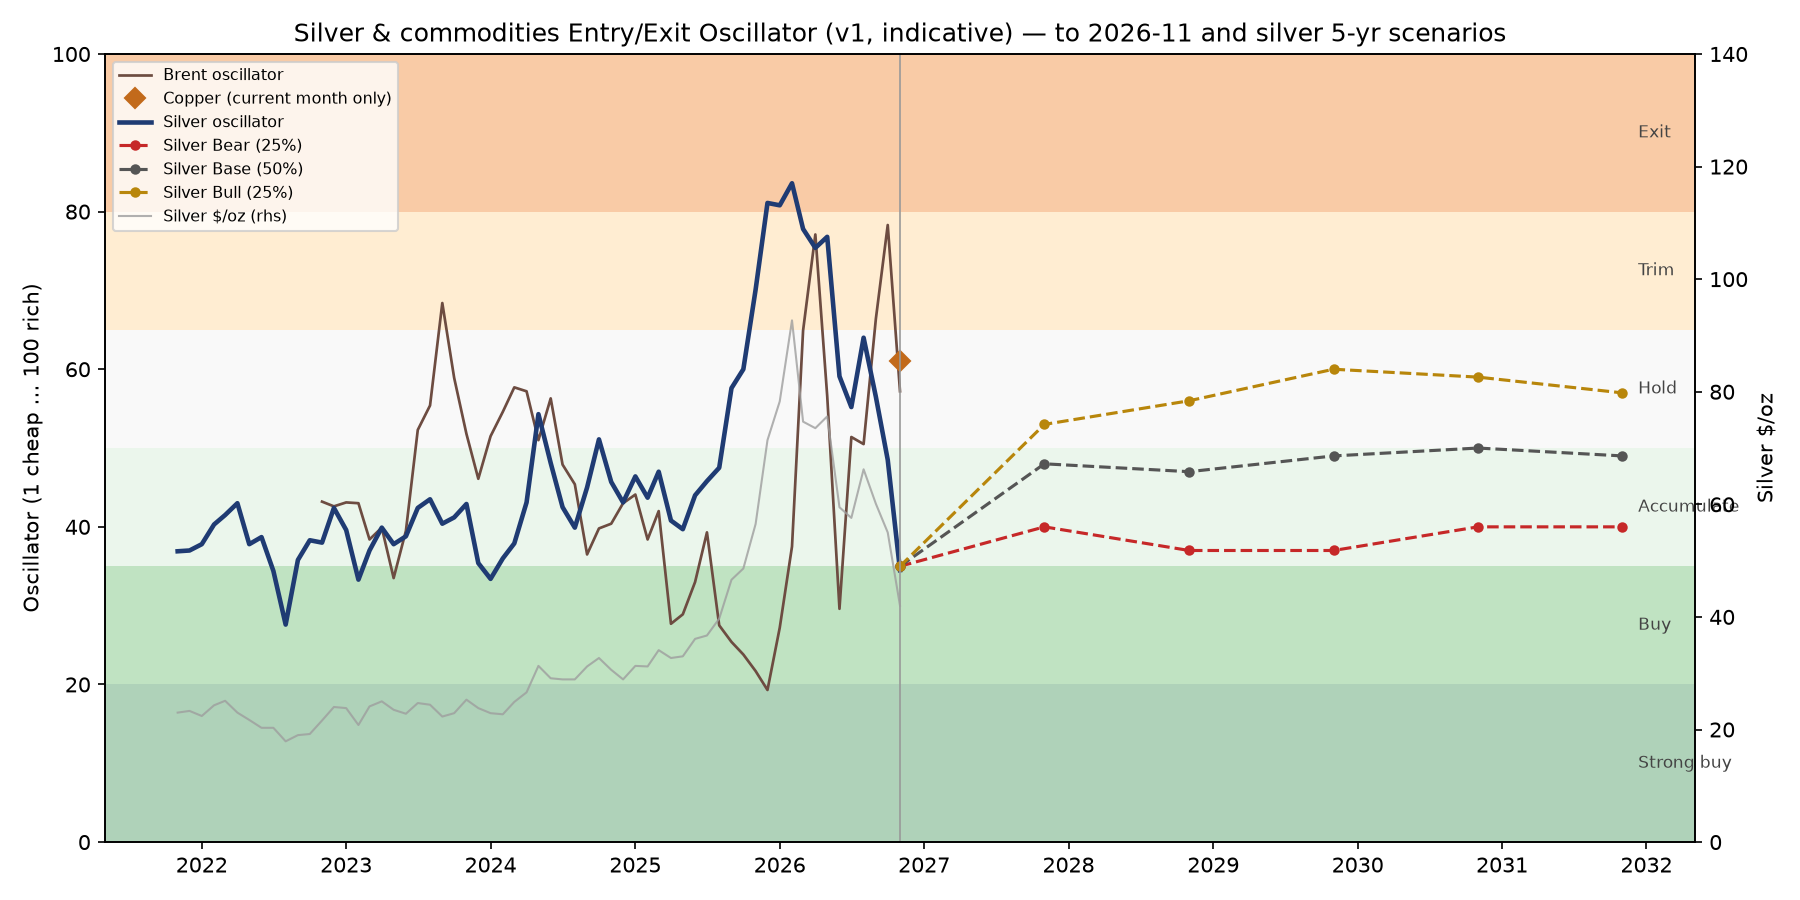
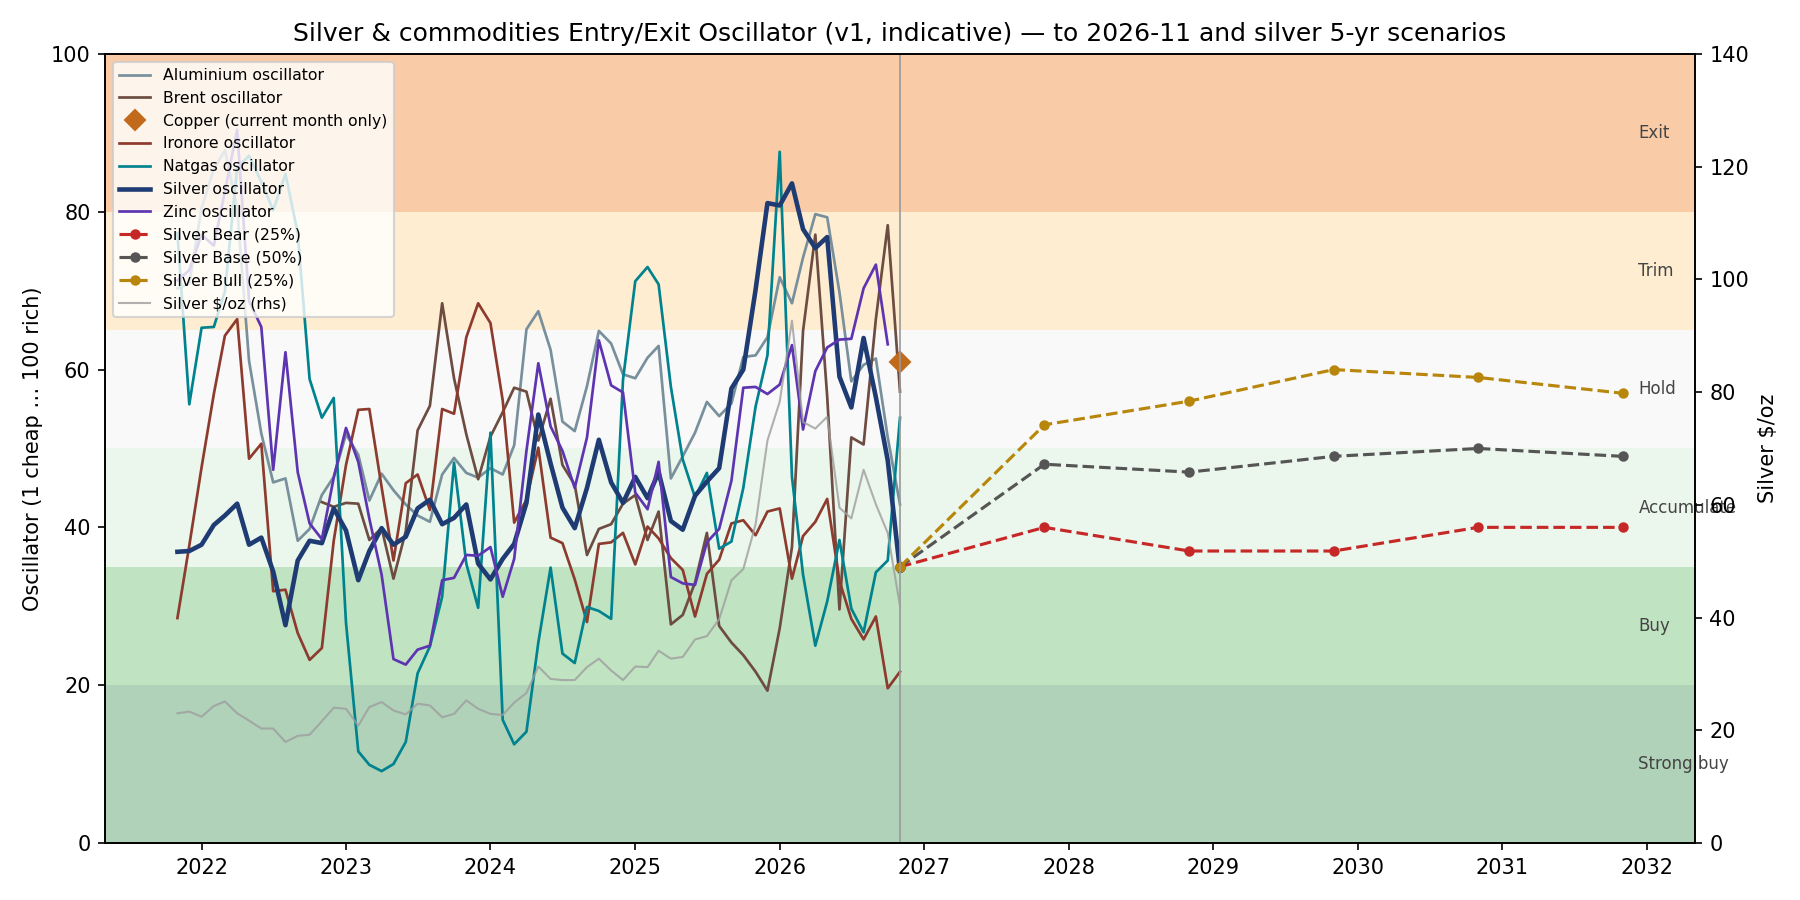
Commodities engine: stop crashing on zinc and the new commodities' chart
- Zinc's price history is World Bank monthly data, so the current month has no
  price yet and score_row returns None. Print each commodity's drivers from its own
  latest scored month (with a note) instead of the board month.
- The chart's colour map only knew silver, Brent and copper; add aluminium, zinc,
  iron ore and natural gas, plus a grey fallback for later additions.

run_models.sh stopped at this engine, so the daily refresh would fail. Score logs
are unchanged.

diff --git a/models/commodities_oscillator.py b/models/commodities_oscillator.py
@@ -189,7 +189,15 @@ def cmd_score(keys, verbose_drivers=True):
         else:
             print("History: current month only (no back-fill yet).")
         if verbose_drivers:
-            s = score_row(c, df[df.month == last_m].iloc[0].to_dict())
+            if h.empty:
+                print("Not scored yet: too few live inputs in any month.")
+                continue
+            # Score the commodity's own latest scored month: a series on monthly data published with a
+            # lag (zinc, World Bank) has no row for the current month yet, and score_row returns None.
+            c_m = h.month.iloc[-1]
+            if c_m != last_m:
+                print(f"No score for {last_m} yet (too few live inputs); drivers as of {c_m}.")
+            s = score_row(c, df[df.month == c_m].iloc[0].to_dict())
             print("Drivers (pull = points vs 50 on the oscillator, + = towards SELL):")
             for d in sorted(s["drivers"], key=lambda d: -abs(d["pull"])):
                 print(f"  {d['id']:<5} {d['name'][:58]:<58} {d['bucket'][:5]:<5} {d['type'][:20]:<20} "
@@ -249,8 +257,10 @@ def cmd_chart():
                            (50,65,"#eeeeee","Hold"),(65,80,"#ffcc80","Trim"),(80,100,"#ef6c00","Exit")]:
         ax.axhspan(lo, hi, color=col, alpha=.35, lw=0)
         ax.text(px[-1] + pd.Timedelta(days=40), (lo+hi)/2, l, va="center", fontsize=8, color="#444")
-    colors = {"SILVER": "#1f3b73", "BRENT": "#6d4c41", "COPPER": "#c26a1b"}
+    colors = {"SILVER": "#1f3b73", "BRENT": "#6d4c41", "COPPER": "#c26a1b", "ALUMINIUM": "#78909c",
+              "ZINC": "#5e35b1", "IRONORE": "#8d3b2f", "NATGAS": "#00838f"}
     for k, h in log.groupby("commodity"):
+        colors.setdefault(k, "#757575")   # any commodity added later without a colour
         if len(h) > 1:
             ax.plot(h.d, h.oscillator, color=colors[k], lw=2.2 if k == "SILVER" else 1.3, label=f"{k.title()} oscillator")
         else:
